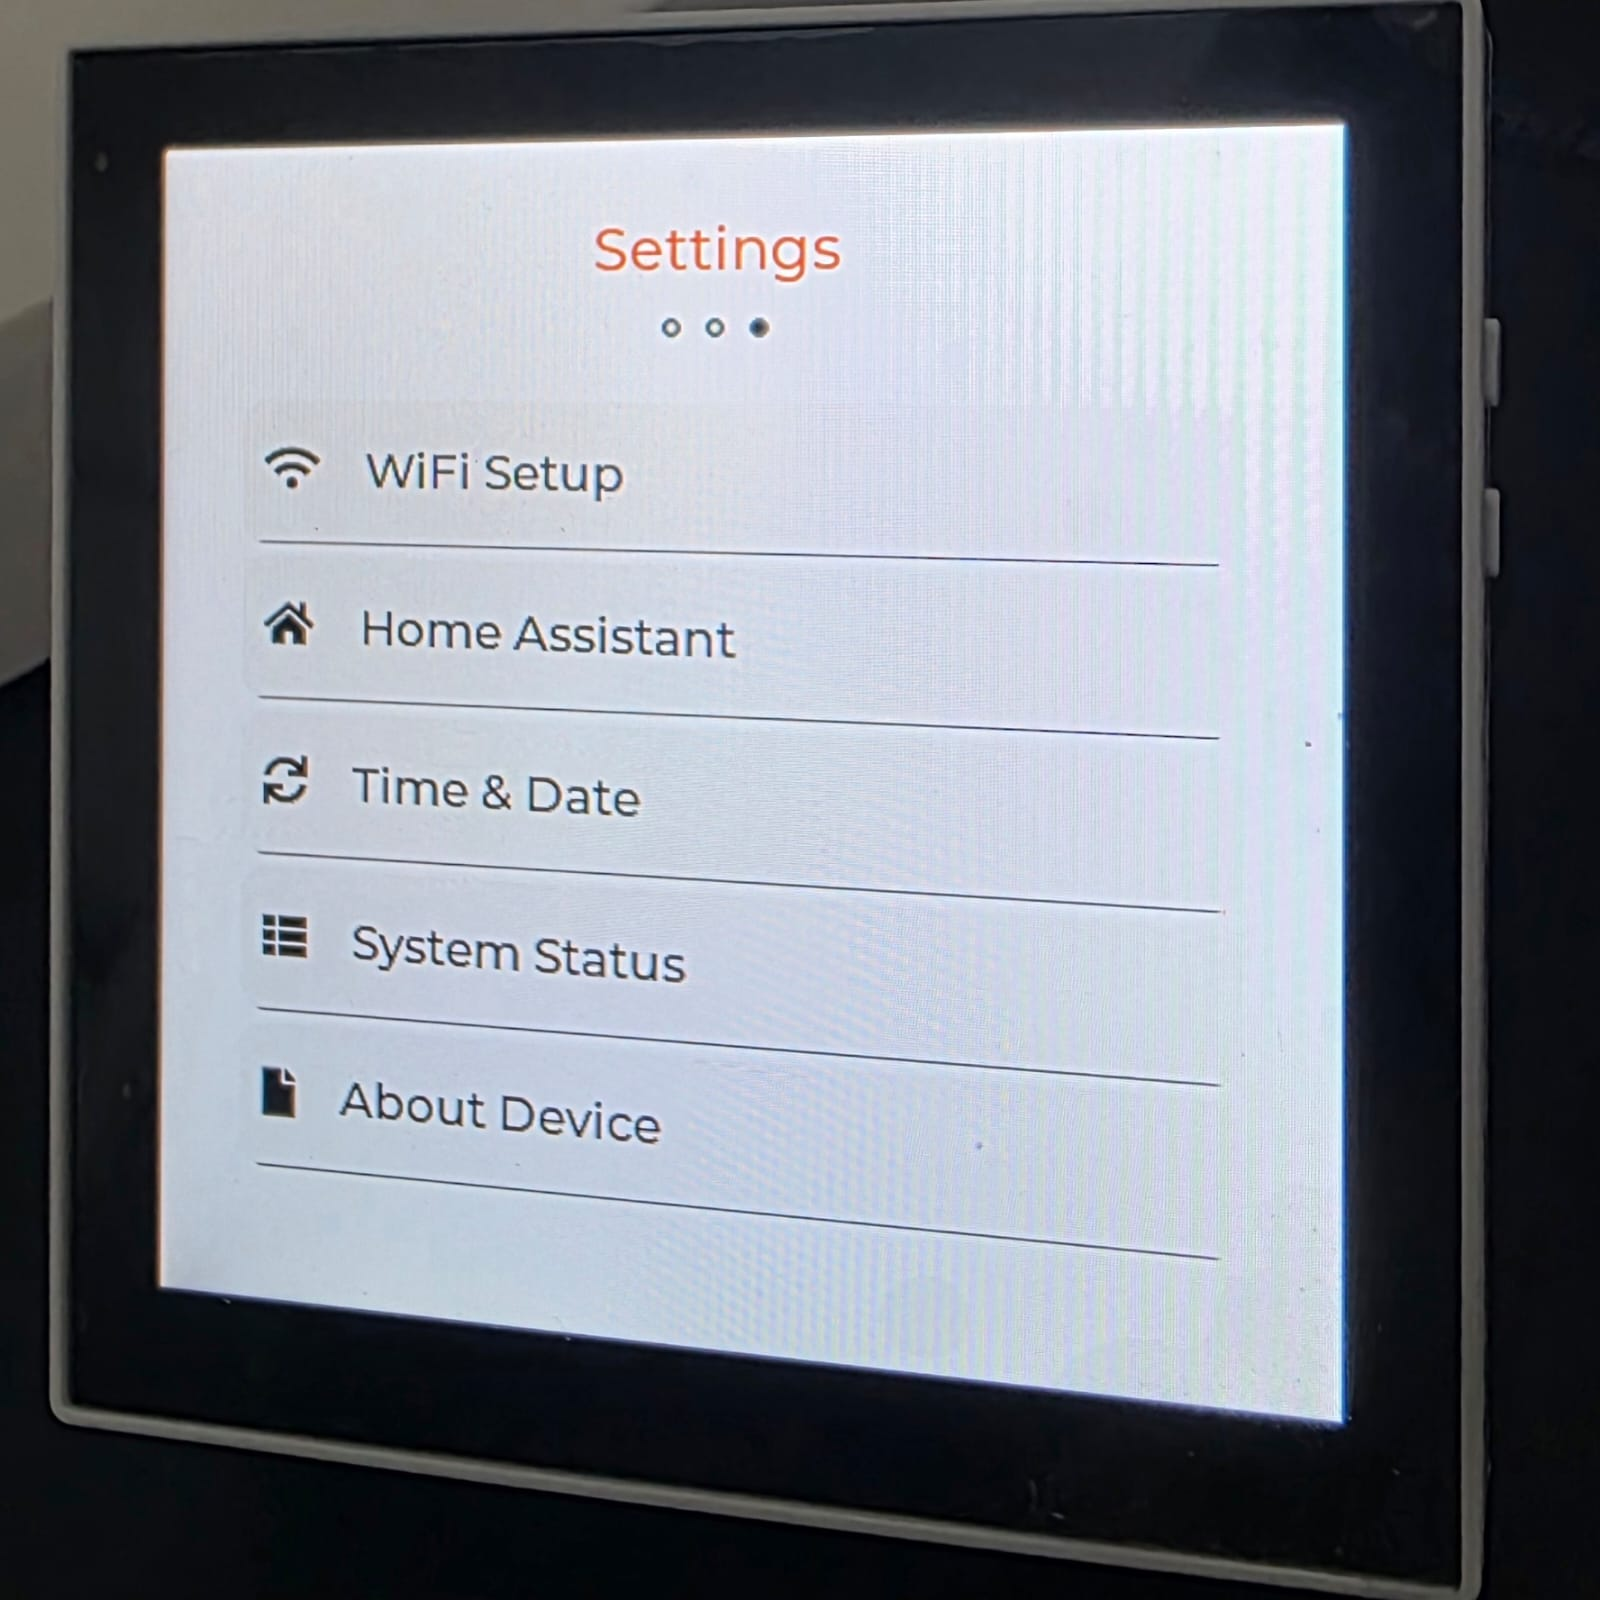
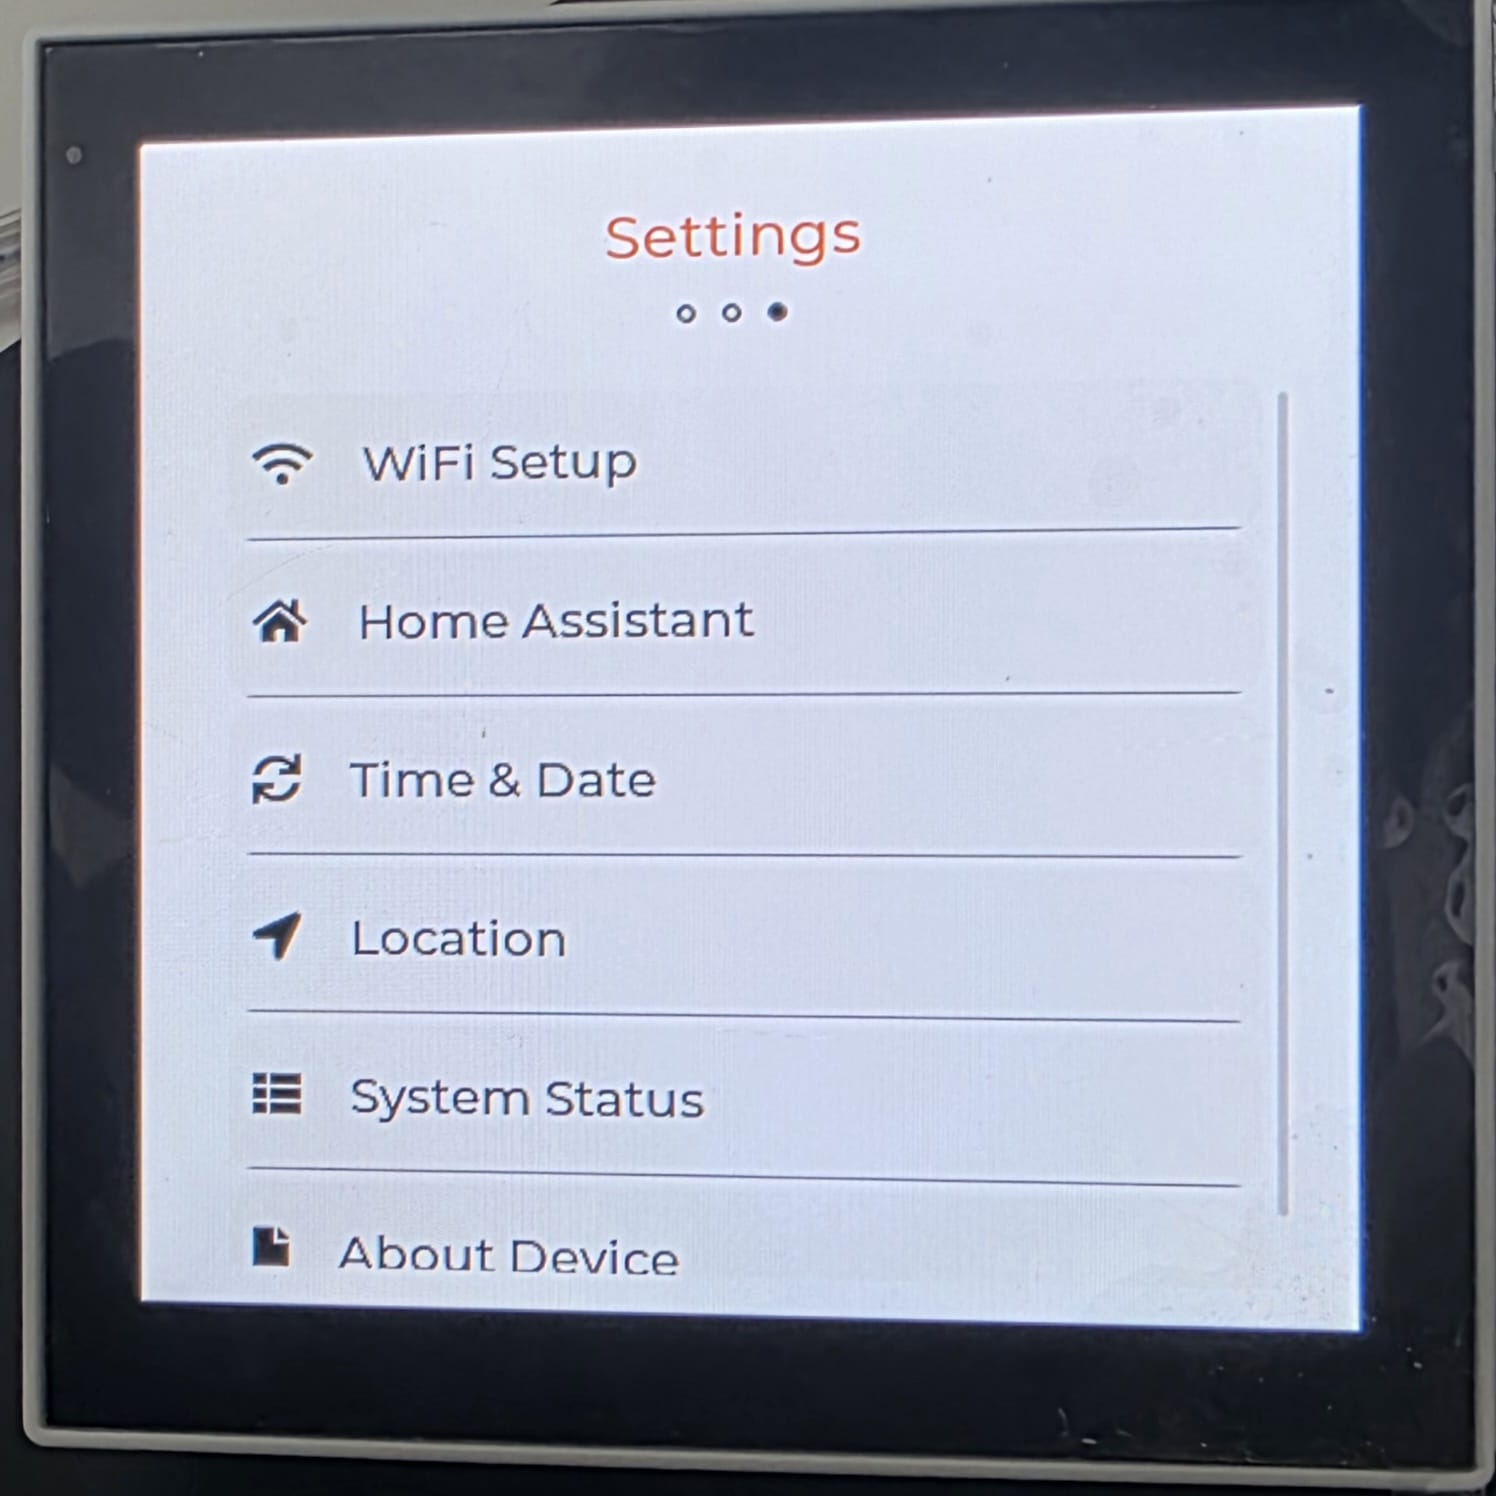
updated docs

diff --git a/README.md b/README.md
@@ -14,9 +14,16 @@ A feature-rich, touch-screen Smart Home Control Panel built for the **Waveshare 
 
 ### 🌤 Weather & Location
 
-* **Auto-Location:** Automatically detects city and coordinates using `ip-api.com`.
-* **Live Weather:** Fetches real-time weather data from `open-meteo.com` (No API Key required).
-* **Dynamic UI:** Background images and weather icons change dynamically based on conditions (Rain, Snow, Clear, Clouds) and time of day (Day/Night).
+The system uses a smart **Hybrid Location Strategy** to ensure weather and time data are always accurate, even after a reboot.
+
+* **Dual-Mode Location:**
+    * **Auto (IP-Based):** Automatically detects your city and coordinates using your WiFi's public IP via `ip-api.com`.
+    * **Manual Override:** Search for any city globally using the built-in keyboard. The system uses the `open-meteo` Geocoding API to find the exact latitude/longitude.
+* **Persistent Settings:** Your chosen location (whether Auto or Manual) is saved to the ESP32's non-volatile memory (NVS). The device wakes up knowing exactly where it is, without needing to re-fetch data immediately.
+* **Live Weather:** Fetches real-time weather conditions from `open-meteo.com` (No API Key required).
+* **Dynamic UI:** The home screen adapts to your environment:
+    * **Conditions:** Visuals change for Clear, Rain, Snow, Clouds, Thunderstorms, and Fog.
+    * **Day/Night Cycle:** Backgrounds automatically switch between Day and Night themes based on your location's local sunset/sunrise times.
 
 ### 🔔 Notification System
 
@@ -225,6 +232,10 @@ In **SquareLine Studio**, these assets were imported to create the image widgets
     <td align="center">
       <img src="docs/screenshots/date_time.jpeg" width="220"/><br/>
       <sub>Date/Time Screen</sub>
+    </td>
+    <td align="center">
+      <img src="docs/screenshots/location_screen.jpeg" width="220"/><br/>
+      <sub>Location Screen</sub>
     </td>
     <td align="center">
       <img src="docs/screenshots/system_status.jpeg" width="220"/><br/>
